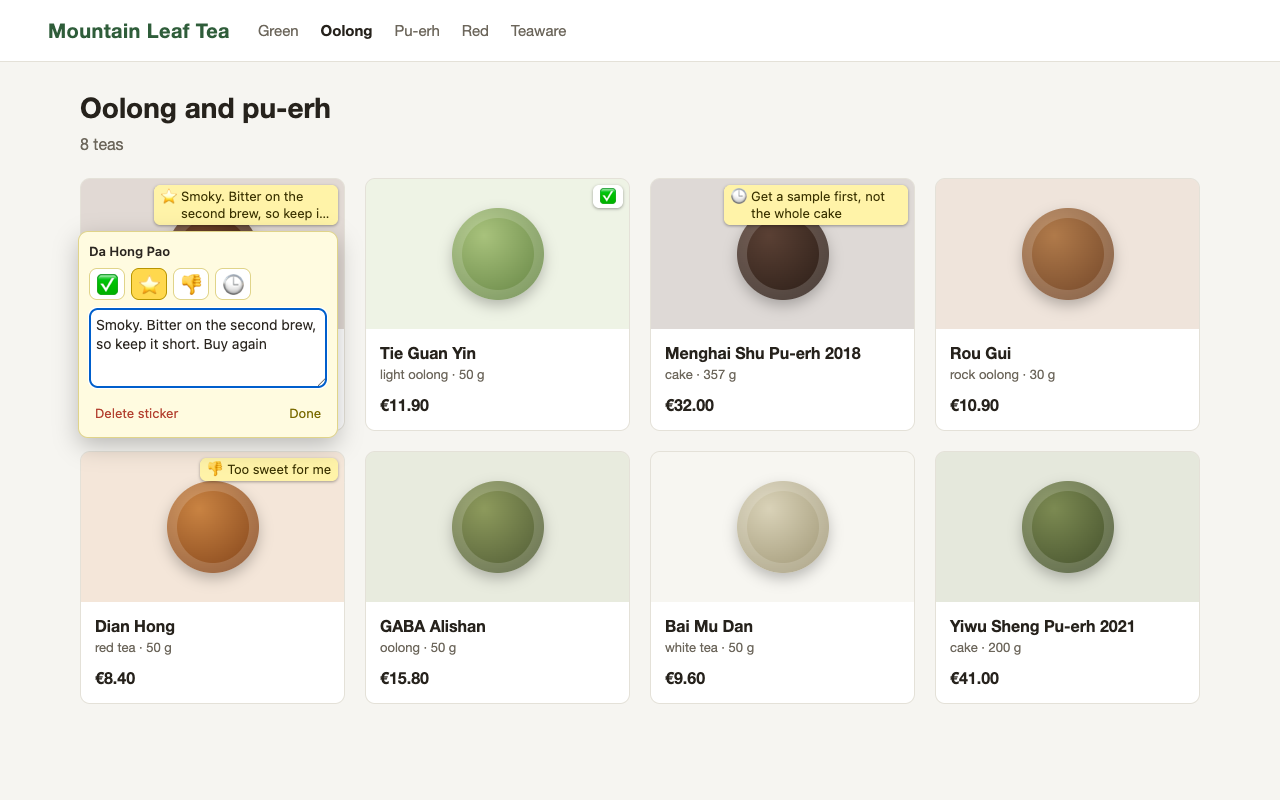
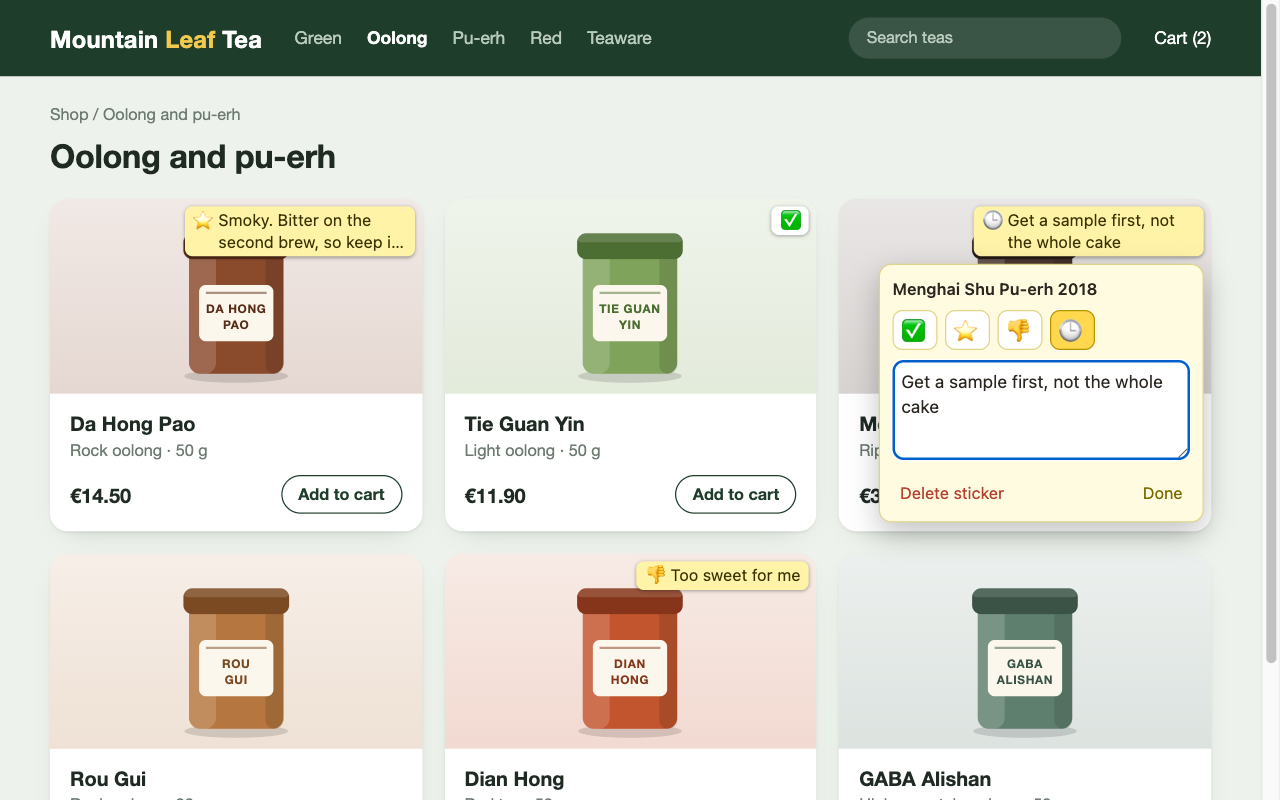
Retake the store screenshots with a better-looking demo shop
The demo shop page is redrawn, and all three screenshots are taken at
1.25x so the stickers stay readable in the store's small previews.

diff --git a/store-assets/demo/shop.html b/store-assets/demo/shop.html
@@ -6,46 +6,67 @@
 <style>
   /* A made-up tea shop, used only to take the store screenshots: no real
      shop's name or design appears in them. */
-  body { margin: 0; font: 16px/1.45 "Helvetica Neue", system-ui, sans-serif; color: #26221c; background: #f6f5f1; }
-  header { display: flex; align-items: center; gap: 28px; padding: 16px 48px; background: #fff; border-bottom: 1px solid #e4e1d8; }
-  .logo { font-weight: 700; font-size: 20px; letter-spacing: .02em; color: #2f5d3a; }
-  nav { display: flex; gap: 22px; font-size: 15px; color: #6c665b; }
-  nav b { color: #26221c; }
-  main { max-width: 1120px; margin: 0 auto; padding: 26px 48px 60px; }
-  h1 { font-size: 28px; margin: 0 0 4px; }
-  .sub { color: #6c665b; margin: 0 0 22px; }
-  .grid { display: grid; grid-template-columns: repeat(4, 1fr); gap: 20px; }
-  .card { background: #fff; border: 1px solid #e4e1d8; border-radius: 10px; overflow: hidden; }
-  .photo { height: 150px; display: flex; align-items: center; justify-content: center; }
-  .cake { width: 92px; height: 92px; border-radius: 50%; box-shadow: inset 0 0 0 10px rgba(255, 255, 255, .16), 0 6px 14px rgba(0, 0, 0, .25); }
-  .body { padding: 12px 14px 14px; }
-  .name { display: block; font-weight: 600; color: inherit; text-decoration: none; }
-  .meta { font-size: 13px; color: #6c665b; margin: 2px 0 8px; }
-  .price { font-weight: 600; font-variant-numeric: tabular-nums; }
+  body { margin: 0; font: 15px/1.45 "Helvetica Neue", system-ui, sans-serif; color: #1e2a22; background: #eef2ec; }
+  header { display: flex; align-items: center; gap: 26px; padding: 14px 40px; background: #1f3d2b; color: #fff; }
+  .logo { font-weight: 700; font-size: 19px; letter-spacing: .01em; }
+  .logo span { color: #f2c94c; }
+  nav { display: flex; gap: 20px; font-size: 14px; color: #b9cbbd; }
+  nav b { color: #fff; }
+  .search { margin-left: auto; width: 190px; padding: 7px 14px; border-radius: 999px; background: rgba(255, 255, 255, .12); color: #b9cbbd; font-size: 13px; }
+  .cart { font-size: 14px; }
+  main { max-width: 944px; margin: 0 auto; padding: 22px 40px 60px; }
+  .crumbs { font-size: 13px; color: #6c7a70; margin-bottom: 4px; }
+  h1 { font-size: 26px; margin: 0 0 16px; letter-spacing: -.01em; }
+  .grid { display: grid; grid-template-columns: repeat(3, 1fr); gap: 18px; }
+  .card { background: #fff; border-radius: 14px; overflow: hidden; box-shadow: 0 1px 2px rgba(31, 61, 43, .08), 0 8px 22px -14px rgba(31, 61, 43, .35); }
+  .art { height: 150px; display: flex; align-items: flex-end; justify-content: center; padding-bottom: 6px; }
+  .body { padding: 12px 16px 14px; }
+  .name { display: block; font-weight: 600; font-size: 16px; color: inherit; text-decoration: none; }
+  .meta { font-size: 13px; color: #6c7a70; margin: 1px 0 10px; }
+  .row { display: flex; align-items: center; justify-content: space-between; }
+  .price { font-weight: 700; font-size: 16px; font-variant-numeric: tabular-nums; }
+  .add { padding: 5px 13px; border-radius: 999px; border: 1px solid #1f3d2b; color: #1f3d2b; font-size: 13px; font-weight: 600; }
 </style>
 </head>
 <body>
-  <header><span class="logo">Mountain Leaf Tea</span><nav><span>Green</span><b>Oolong</b><span>Pu-erh</span><span>Red</span><span>Teaware</span></nav></header>
+  <header>
+    <span class="logo">Mountain <span>Leaf</span> Tea</span>
+    <nav><span>Green</span><b>Oolong</b><span>Pu-erh</span><span>Red</span><span>Teaware</span></nav>
+    <span class="search">Search teas</span><span class="cart">Cart (2)</span>
+  </header>
   <main>
+    <div class="crumbs">Shop / Oolong and pu-erh</div>
     <h1>Oolong and pu-erh</h1>
-    <p class="sub">8 teas</p>
     <div class="grid" id="grid"></div>
   </main>
   <script>
+    // slug, name, details, price, tin colour, lid colour, two label lines
     const teas = [
-      ['da-hong-pao', 'Da Hong Pao', 'rock oolong · 50 g', '€14.50', '#6a3f27', '#3f2416'],
-      ['tie-guan-yin', 'Tie Guan Yin', 'light oolong · 50 g', '€11.90', '#a8c27c', '#5f7f3f'],
-      ['menghai-shu-2018', 'Menghai Shu Pu-erh 2018', 'cake · 357 g', '€32.00', '#5a4034', '#261a14'],
-      ['rou-gui', 'Rou Gui', 'rock oolong · 30 g', '€10.90', '#b07a4a', '#6d4226'],
-      ['dian-hong', 'Dian Hong', 'red tea · 50 g', '€8.40', '#c98342', '#7d3f17'],
-      ['gaba-alishan', 'GABA Alishan', 'oolong · 50 g', '€15.80', '#8d9a5c', '#4a5531'],
-      ['bai-mu-dan', 'Bai Mu Dan', 'white tea · 50 g', '€9.60', '#d9d2b8', '#9a916f'],
-      ['sheng-2021', 'Yiwu Sheng Pu-erh 2021', 'cake · 200 g', '€41.00', '#7c8a52', '#3e4a28'],
+      ['da-hong-pao', 'Da Hong Pao', 'Rock oolong · 50 g', '€14.50', '#8a4b2d', '#5a2c18', 'DA HONG', 'PAO'],
+      ['tie-guan-yin', 'Tie Guan Yin', 'Light oolong · 50 g', '€11.90', '#7fa35a', '#4d6e33', 'TIE GUAN', 'YIN'],
+      ['menghai-shu-2018', 'Menghai Shu Pu-erh 2018', 'Ripe pu-erh · 357 g cake', '€32.00', '#4a372e', '#2a1d17', 'MENGHAI', 'SHU 2018'],
+      ['rou-gui', 'Rou Gui', 'Rock oolong · 30 g', '€10.90', '#b5763f', '#7b4a22', 'ROU', 'GUI'],
+      ['dian-hong', 'Dian Hong', 'Red tea · 50 g', '€8.40', '#c2552d', '#86351a', 'DIAN', 'HONG'],
+      ['gaba-alishan', 'GABA Alishan', 'High mountain oolong · 50 g', '€15.80', '#5f7f6e', '#3a5346', 'GABA', 'ALISHAN'],
     ];
-    for (const [slug, name, meta, price, light, dark] of teas) {
+    const tin = (body, lid, line1, line2) => `
+      <svg viewBox="0 0 120 150" width="108" height="135" aria-hidden="true">
+        <ellipse cx="60" cy="141" rx="46" ry="6" fill="rgba(0,0,0,.13)"/>
+        <rect x="18" y="26" width="84" height="113" rx="10" fill="${body}"/>
+        <rect x="18" y="26" width="24" height="113" rx="10" fill="rgba(255,255,255,.16)"/>
+        <rect x="86" y="26" width="16" height="113" rx="8" fill="rgba(0,0,0,.12)"/>
+        <rect x="13" y="14" width="94" height="23" rx="8" fill="${lid}"/>
+        <rect x="13" y="14" width="94" height="8" rx="4" fill="rgba(255,255,255,.14)"/>
+        <rect x="27" y="60" width="66" height="50" rx="6" fill="#fbf7ec"/>
+        <rect x="33" y="66" width="54" height="2" fill="${lid}" opacity=".5"/>
+        <text x="60" y="85" text-anchor="middle" font-family="Helvetica Neue, sans-serif" font-size="10.5" font-weight="700" letter-spacing=".6" fill="${lid}">${line1}</text>
+        <text x="60" y="99" text-anchor="middle" font-family="Helvetica Neue, sans-serif" font-size="10.5" font-weight="700" letter-spacing=".6" fill="${lid}">${line2}</text>
+      </svg>`;
+    for (const [slug, name, meta, price, body, lid, line1, line2] of teas) {
       document.getElementById('grid').insertAdjacentHTML('beforeend',
-        `<div class="card"><div class="photo" style="background:${light}33"><div class="cake" style="background:radial-gradient(circle at 35% 30%, ${light}, ${dark})"></div></div>
-         <div class="body"><a class="name" href="/tea/${slug}">${name}</a><div class="meta">${meta}</div><div class="price">${price}</div></div></div>`);
+        `<div class="card"><div class="art" style="background: linear-gradient(180deg, ${body}1f, ${body}38)">${tin(body, lid, line1, line2)}</div>
+         <div class="body"><a class="name" href="/tea/${slug}">${name}</a><div class="meta">${meta}</div>
+         <div class="row"><span class="price">${price}</span><span class="add">Add to cart</span></div></div></div>`);
     }
   </script>
 </body>
